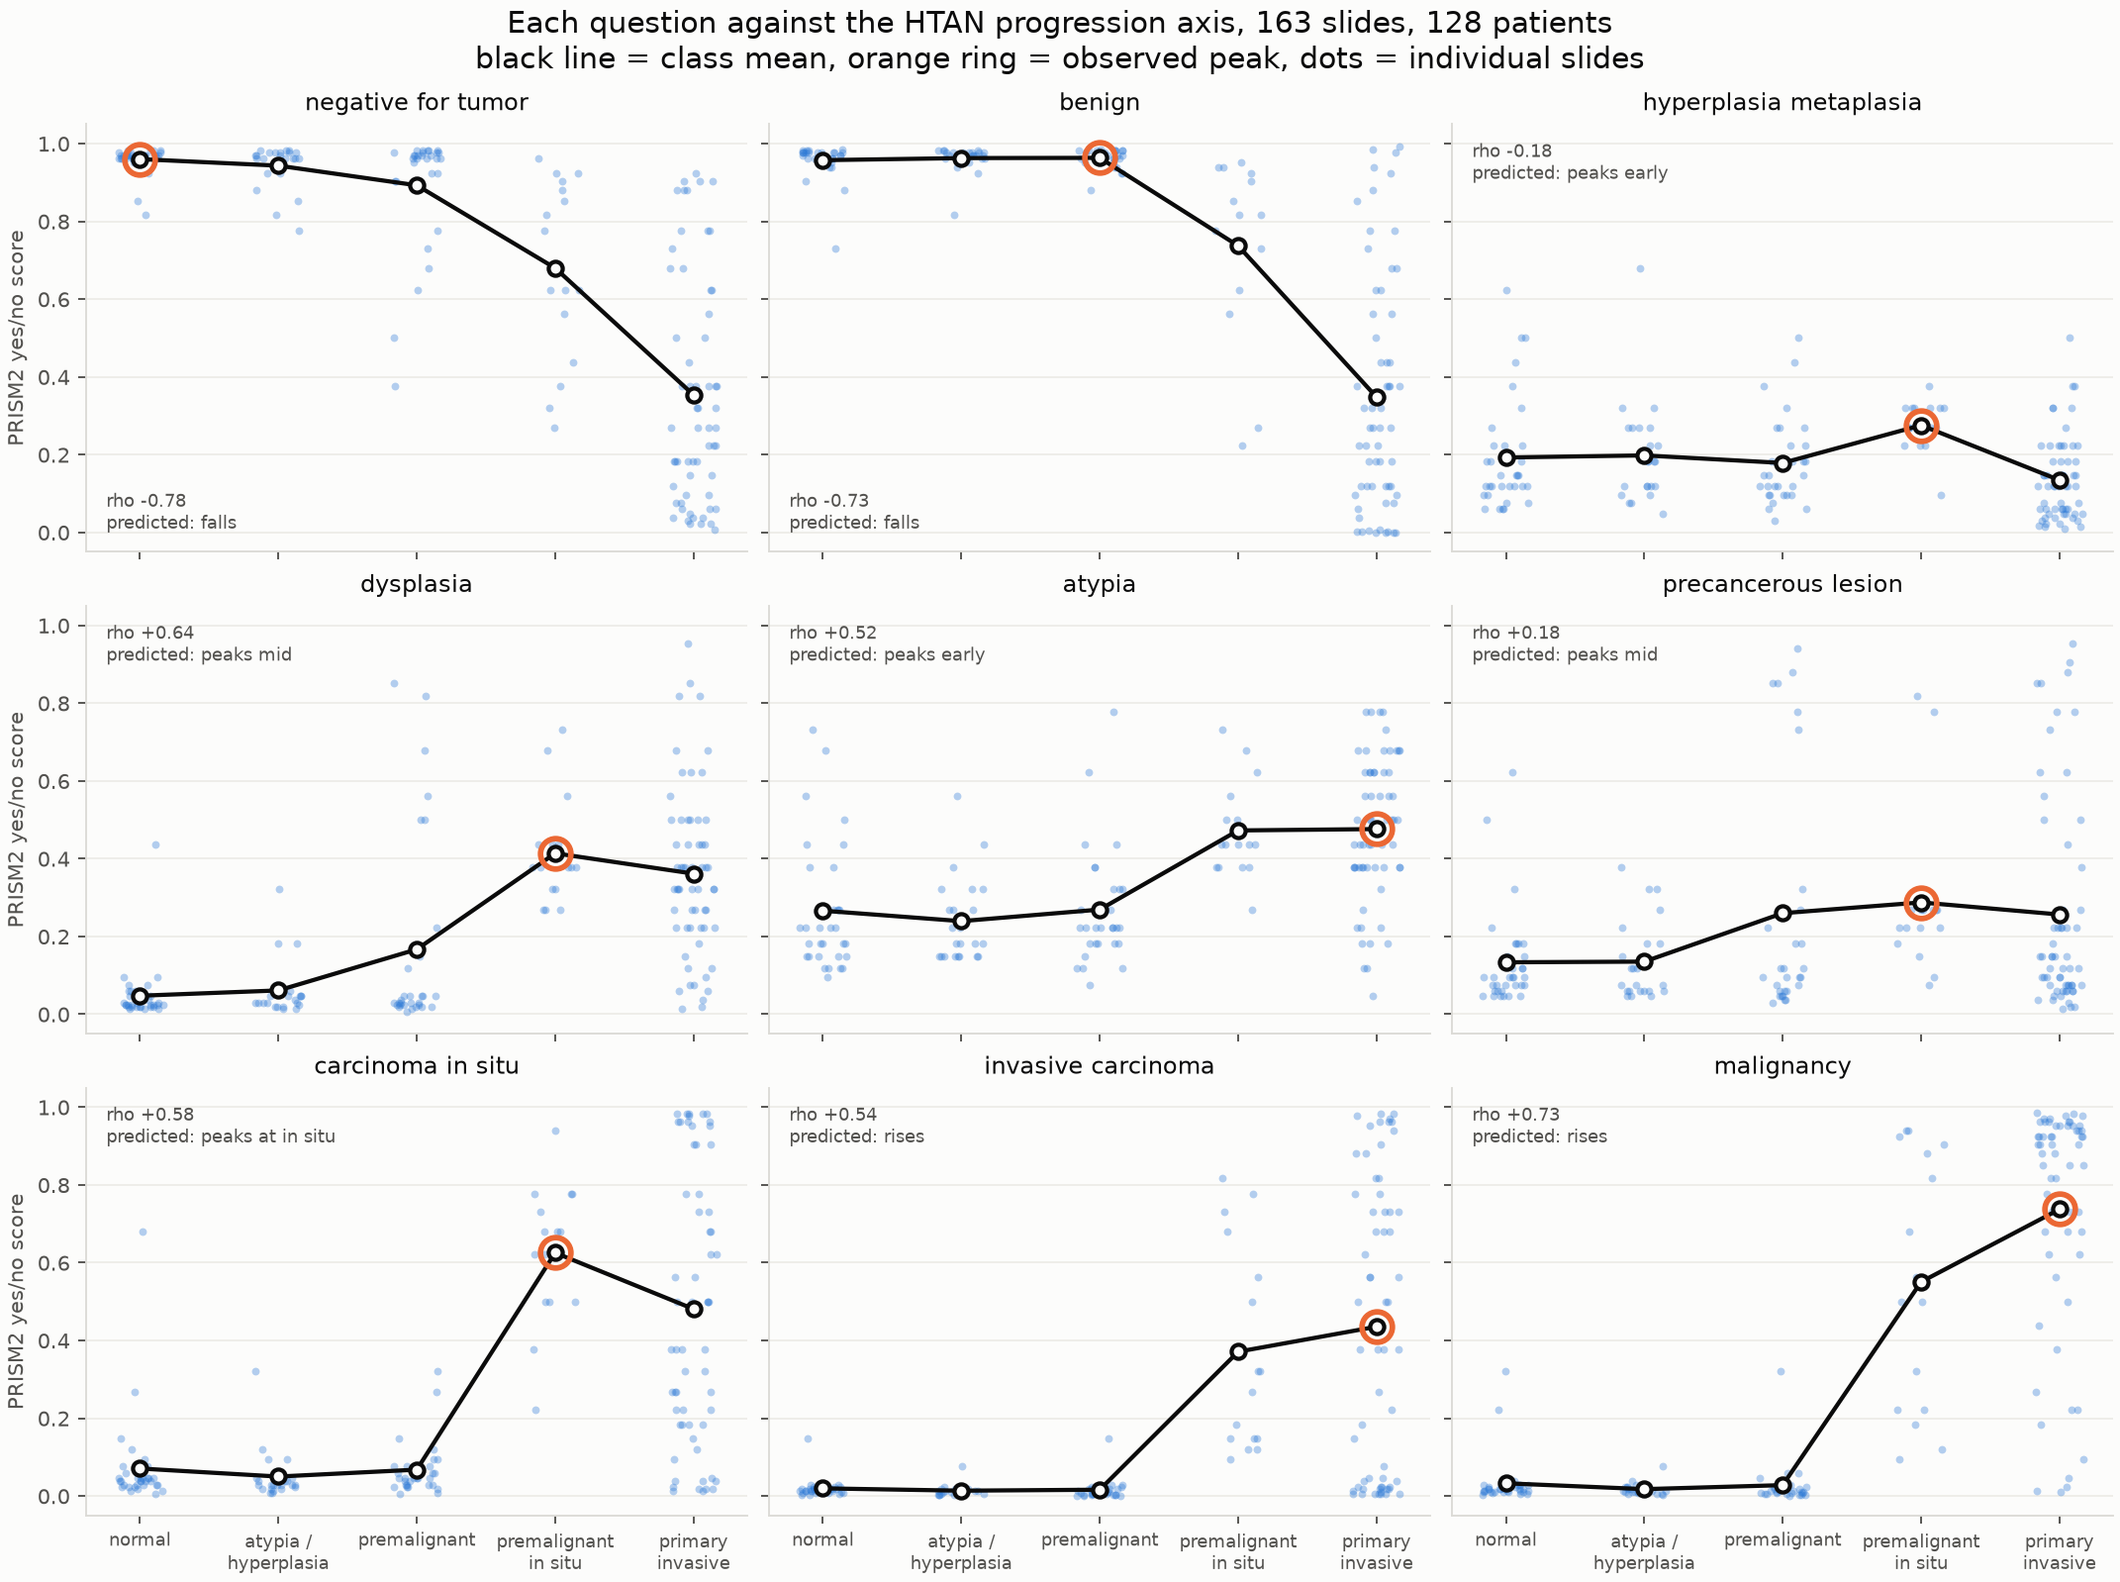
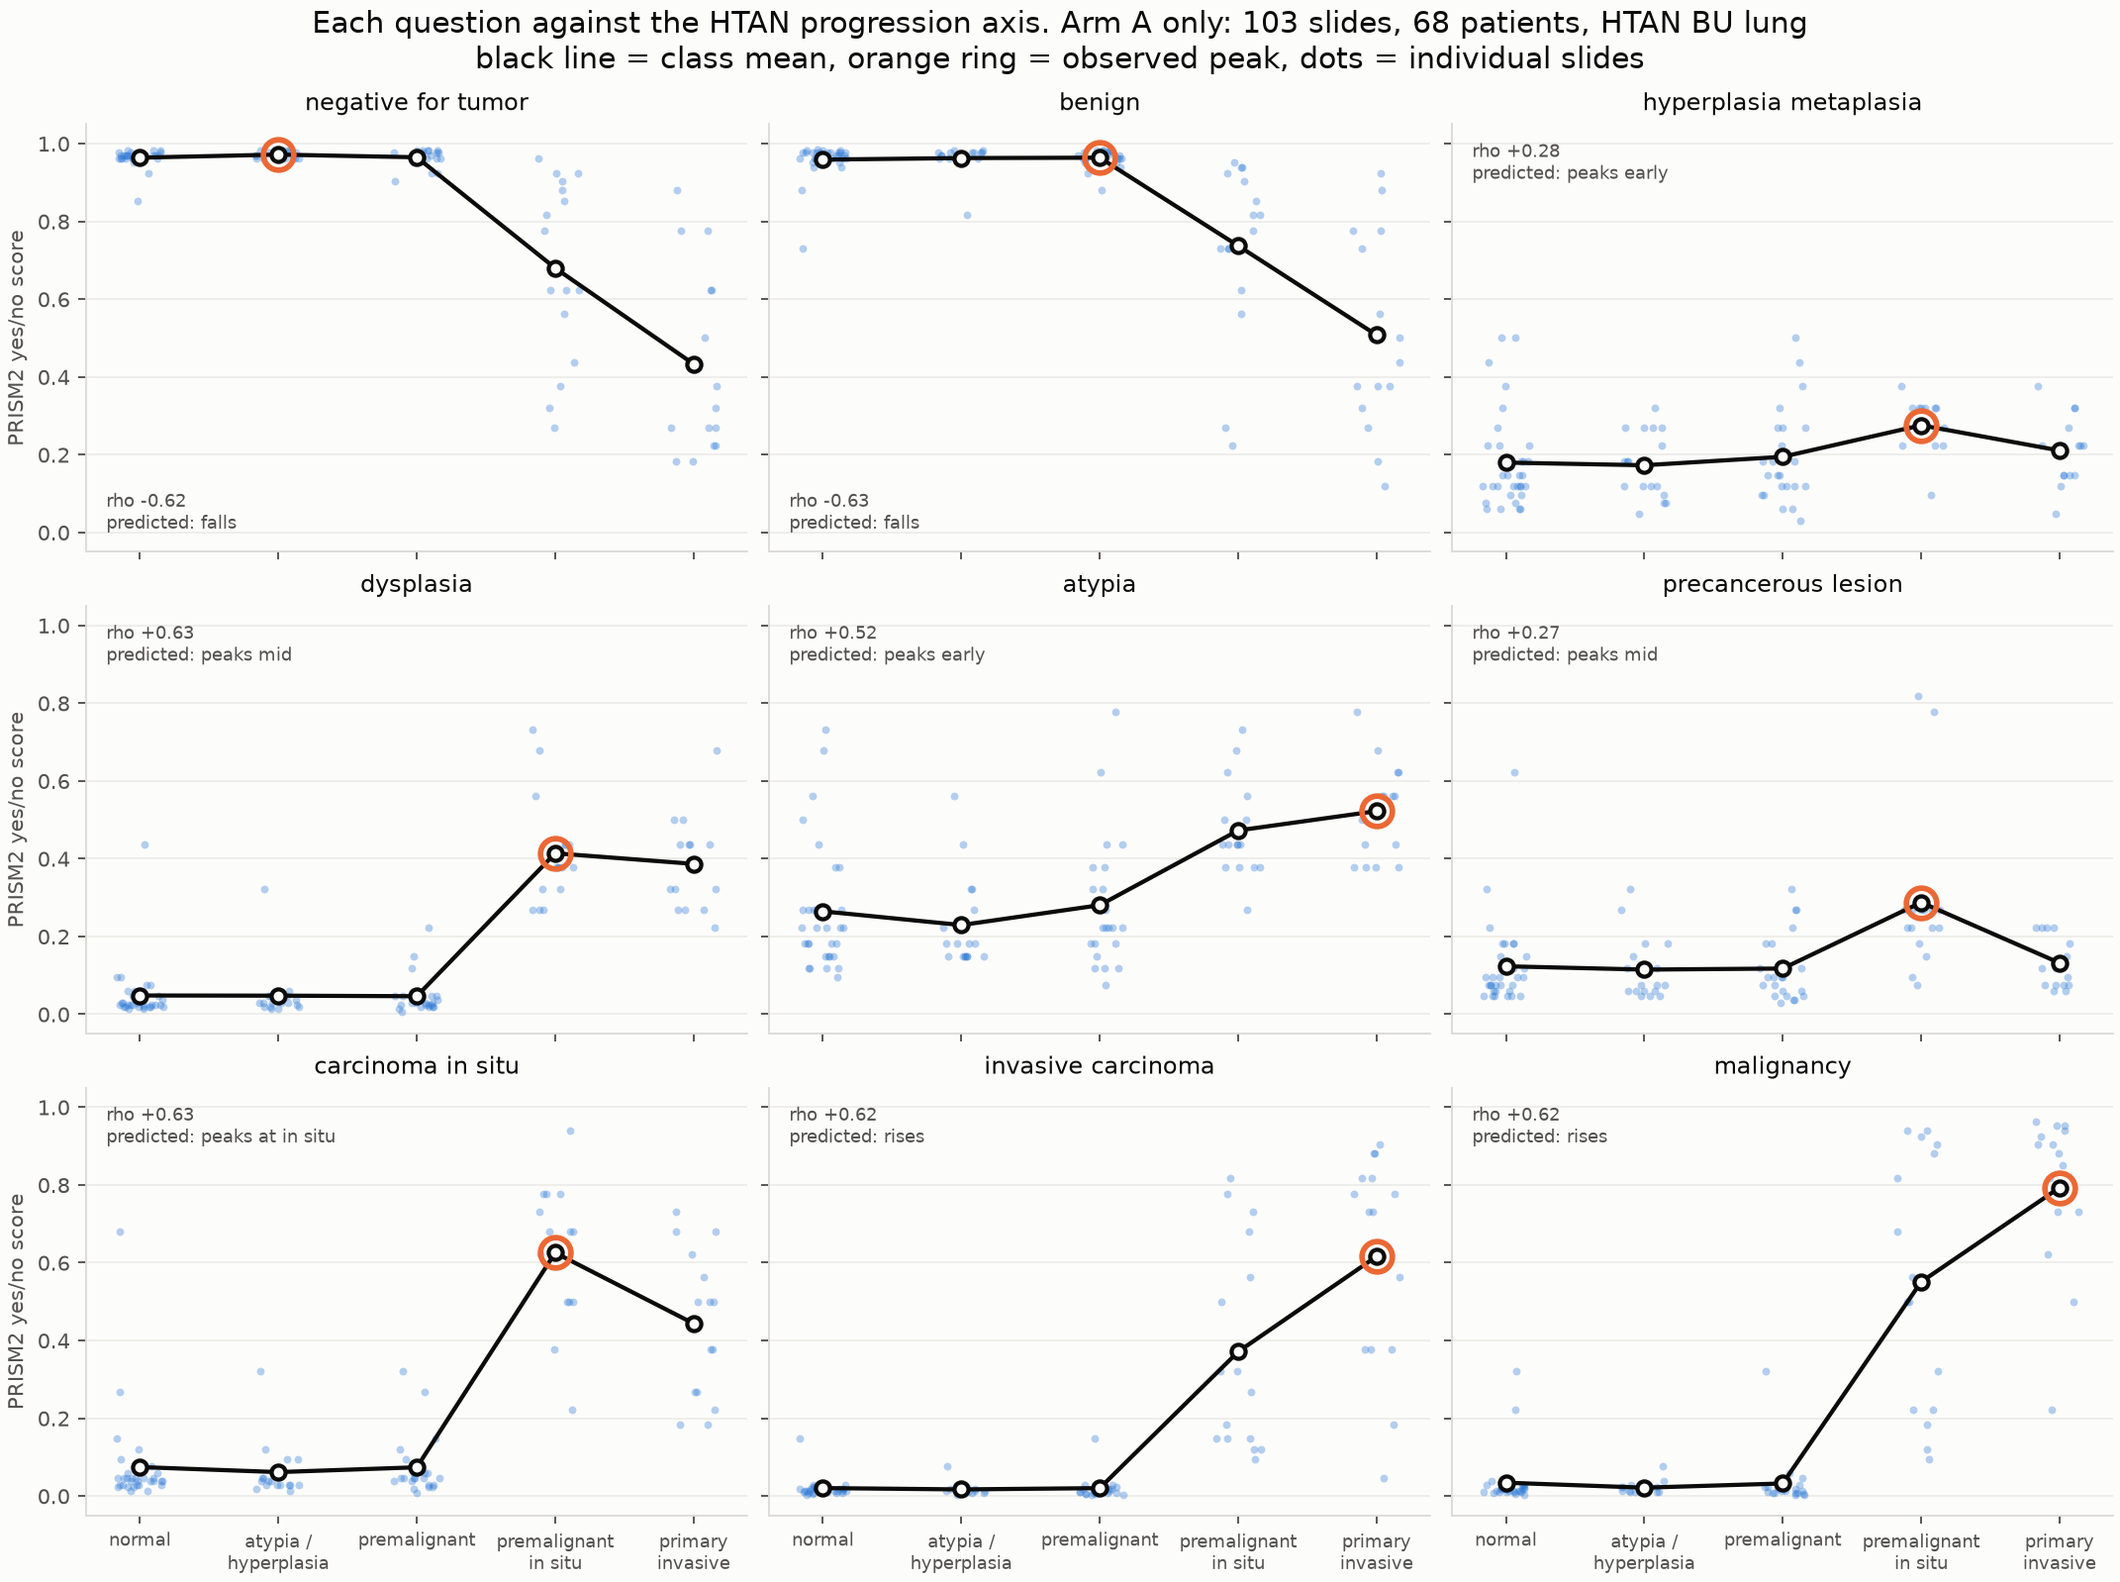
fix: report the progression endpoint by arm, as pre-registered
The first pass pooled all three arms, which the pre-registration explicitly forbids.
Correcting it changes the headline substantially, and not in the direction I assumed.

Arm A alone (HTAN BU lung, 103 slides, 68 patients, all six classes, one centre one organ):
invasive_carcinoma AUC 0.998, malignancy 0.997, carcinoma_in_situ 0.965, negative_for_tumor
0.998 in its own direction, with essentially no tied pairs. Separation is complete.

Pooling Arm C dropped invasive_carcinoma to 0.829 while inflating Spearman from -0.62 to
-0.78: two artefacts in opposite directions. The AUC drop has a specific cause worth
recording. TumorTissueType = Primary means the primary tumour specimen, not invasive tissue,
and Arm C's primaries include Duke breast DCIS, a primary specimen that is morphologically
in situ. The model scoring those low is correct; the label is what misleads.

Arm B replicates directionally in colon (rho -0.89 to +0.84) but rests on 2 normals, so its
AUCs are not reported as evidence. Figures 1 to 3 are now Arm A only, fig4 compares arms.

diff --git a/benchmark_results/progression_20260820/make_figures.py b/benchmark_results/progression_20260820/make_figures.py
@@ -49,7 +49,11 @@ OFF = {"F", "G", "H"}
 
 lab = {r["sample"]: r for r in csv.DictReader(open(f"{REPO}/assets/samplesheet_progression_labels.csv"))}
 rec = {r["sample"]: r for r in json.load(open(f"{HERE}/results.json"))}
-rows = [dict(lab[s], rec=rec[s]) for s in rec if s in lab and lab[s]["ttt"] in RANK]
+rows_all = [dict(lab[s], rec=rec[s]) for s in rec if s in lab and lab[s]["ttt"] in RANK]
+def _arm(r): return "A" if r["arm"].startswith("A") else r["arm"]
+# Arm A only: the pre-registered primary endpoint, one centre and one organ. Pooling in Arm C
+# would mix in Duke breast DCIS, labelled Primary but morphologically in situ.
+rows = [r for r in rows_all if _arm(r) == "A"]
 def yn(r, q):
     v = r["rec"].get("yes_no", {}).get(q, {}).get("score")
     return float(v) if v is not None else np.nan
@@ -83,7 +87,8 @@ for ax in axes[-1]:
     ax.set_xticks(range(5), SHORT, fontsize=7.5)
 for ax in axes[:, 0]:
     ax.set_ylabel("PRISM2 yes/no score")
-fig.suptitle("Each question against the HTAN progression axis, 163 slides, 128 patients\n"
+fig.suptitle(f"Each question against the HTAN progression axis. Arm A only: "
+             f"{len(rows)} slides, {len({r['pt'] for r in rows})} patients, HTAN BU lung\n"
              "black line = class mean, orange ring = observed peak, dots = individual slides",
              fontsize=12.5, color=INK)
 fig.savefig(f"{FIG}/fig1_ladder.png", dpi=170); plt.close(fig)
@@ -135,7 +140,7 @@ h = [plt.Line2D([], [], marker="s", ls="", color=BLUE, ms=9, label="present in t
      plt.Line2D([], [], marker="s", ls="", color=ORANGE, ms=9, label="off-cohort distractor")]
 ax.legend(handles=h, frameon=False, fontsize=8.5, loc="lower right")
 ax.set_title("43% of answers are one option; 25% are impossible here", fontsize=9.5, color=INK)
-fig.suptitle("Forced choice using HTAN's own vocabulary: 21% exact against 12.5% chance",
+fig.suptitle(f"Forced choice using HTAN's own vocabulary, Arm A ({len(rows)} slides)",
              fontsize=12.5, color=INK)
 fig.savefig(f"{FIG}/fig2_stage_mc.png", dpi=170); plt.close(fig)
 
@@ -162,8 +167,45 @@ for ax, q in zip(axes, QS):
     ax.set_ylim(-0.05, 1.05)
     ax.grid(axis="y", color="#ecebe6", lw=0.7); ax.set_axisbelow(True)
 axes[0].set_ylabel("PRISM2 yes/no score")
-fig.suptitle("Normal versus invasive primary, the endpoint the 10-slide pilot could not compute\n"
+fig.suptitle("Normal versus invasive primary, Arm A only: one centre, one organ\n"
              "black bar = median; negative_for_tumor is expected to separate in the opposite direction",
              fontsize=12, color=INK)
 fig.savefig(f"{FIG}/fig3_normal_vs_primary.png", dpi=170); plt.close(fig)
 print("wrote", sorted(os.listdir(FIG)))
+
+
+# ------------------------------------------------------------------ fig 4
+QS4 = ["negative_for_tumor", "benign", "dysplasia", "carcinoma_in_situ", "invasive_carcinoma", "malignancy"]
+arms = [("A", "Arm A\nBU lung, 6 classes"), ("B", "Arm B\nVanderbilt colon, 4 classes"),
+        ("ALL", "pooled with Arm C\n(confounded)")]
+fig, axes = plt.subplots(1, 2, figsize=(12.4, 4.6), constrained_layout=True)
+for ax, (metric, title, ref) in zip(axes, [
+        ("rho", "Spearman against the ordinal axis", 0.0),
+        ("auc", "AUC, normal versus invasive primary", 0.5)]):
+    for ai, (a, aname) in enumerate(arms):
+        sub = rows_all if a == "ALL" else [r for r in rows_all if _arm(r) == a]
+        vals = []
+        for q in QS4:
+            x = np.array([RANK[r["ttt"]] for r in sub]); y = np.array([yn(r, q) for r in sub])
+            m = ~np.isnan(y)
+            if metric == "rho":
+                vals.append(spearmanr(x[m], y[m]).statistic)
+            else:
+                pos = [yn(r, q) for r in sub if r["ttt"] == "Primary"]
+                neg = [yn(r, q) for r in sub if r["ttt"] in ("Normal", "Normal adjacent")]
+                pos = [v for v in pos if not np.isnan(v)]; neg = [v for v in neg if not np.isnan(v)]
+                vals.append(auc(pos, neg) if pos and neg else np.nan)
+        off = (ai - 1) * 0.24
+        ax.scatter(vals, np.arange(len(QS4)) + off, s=70, color=[BLUE, ORANGE, INK3][ai],
+                   label=aname, zorder=3, linewidths=0)
+    ax.axvline(ref, color=INK3, lw=1.4, ls="--")
+    ax.set_yticks(range(len(QS4)), [q.replace("_", " ") for q in QS4], fontsize=9)
+    ax.invert_yaxis(); ax.grid(axis="x", color="#ecebe6", lw=0.7); ax.set_axisbelow(True)
+    ax.set_title(title, fontsize=10, color=INK)
+    ax.set_xlim(-1.05, 1.05) if metric == "rho" else ax.set_xlim(-0.03, 1.03)
+axes[1].legend(frameon=False, fontsize=8, loc="center left")
+fig.suptitle("Arm A is the endpoint. Pooling Arm C lowers the AUC because its Primary class\n"
+             "includes Duke breast DCIS: a primary specimen that is morphologically in situ.",
+             fontsize=11.5, color=INK)
+fig.savefig(f"{FIG}/fig4_by_arm.png", dpi=170); plt.close(fig)
+print("wrote fig4")

diff --git a/benchmark_results/progression_20260820/score_progression.py b/benchmark_results/progression_20260820/score_progression.py
@@ -24,8 +24,16 @@ LADDER = ["negative_for_tumor", "benign", "hyperplasia_metaplasia", "dysplasia",
 
 lab = {r["sample"]: r for r in csv.DictReader(open(os.path.join(REPO, "assets/samplesheet_progression_labels.csv")))}
 rec = {r["sample"]: r for r in json.load(open(os.path.join(HERE, "results.json")))}
-rows = [dict(lab[s], **{"rec": rec[s]}) for s in rec if s in lab]
-print(f"{len(rows)} slides scored, {len({r['pt'] for r in rows})} patients\n")
+rows_all = [dict(lab[s], **{"rec": rec[s]}) for s in rec if s in lab]
+# Arm A is the pre-registered primary endpoint: one centre, one organ, all six classes. Arm B is
+# a separate replication. Arm C is primary-only across organs and must never be pooled into the
+# progression statistics, because its "Primary" slides include Duke breast DCIS, which is a
+# primary specimen that is morphologically in situ.
+ARM = os.environ.get("ARM", "A")
+def _arm(r): return "A" if r["arm"].startswith("A") else r["arm"]
+rows = rows_all if ARM == "ALL" else [r for r in rows_all if _arm(r) == ARM]
+print(f"ARM {ARM}: {len(rows)} slides, {len({r['pt'] for r in rows})} patients "
+      f"(of {len(rows_all)} scored overall)\n")
 
 def yn(r, q):
     v = r["rec"].get("yes_no", {}).get(q, {}).get("score")

diff --git a/benchmark_results/progression_20260820/ANALYSIS.md b/benchmark_results/progression_20260820/ANALYSIS.md
@@ -4,6 +4,11 @@ Run `nf-prism2-progression-188-resume` (`20zEYRdNeMfjuM`), 20 Aug 2026, `nf-pris
 spot `p4d.24xlarge`. **163 slides scored, 128 patients.** Scoring follows
 `assets/questions_htan_progression.md`, fixed before the run.
 
+**Read Arm A for the progression endpoint.** Arm A is HTAN BU lung, 103 slides and 68 patients
+with all six classes, one centre and one organ, which is what removes the scanner and stain
+confound. Arm B is a separate replication. Arm C is primary-only across organs and is never
+pooled into the progression statistics, for a reason given in section 2b.
+
 ## Headline
 
 Asked in pathology report language, PRISM2 tracks the HTAN progression axis closely. Asked the
@@ -13,20 +18,20 @@ same question in HTAN's curation vocabulary, it does not. That contrast is the m
 
 ![ladder](figures/fig1_ladder.png)
 
-Spearman against the ordinal axis, 95% CI bootstrapped over **patients** (32 contribute more than
-one specimen, so slide-level resampling would overstate precision):
+**Arm A**, Spearman against the ordinal axis, 95% CI bootstrapped over **patients** (32 patients
+contribute more than one specimen, so slide-level resampling would overstate precision):
 
 | Question | rho | 95% CI | Observed peak | Predicted |
 |---|---|---|---|---|
-| `negative_for_tumor` | **-0.78** | -0.82 to -0.74 | normal | falls, yes |
-| `benign` | **-0.73** | -0.79 to -0.65 | normal | falls, yes |
-| `malignancy` | **+0.73** | 0.66 to 0.79 | primary | rises, yes |
-| `dysplasia` | +0.64 | 0.58 to 0.71 | in situ | peaks mid, yes |
-| `carcinoma_in_situ` | +0.58 | 0.49 to 0.67 | **in situ** | peaks at in situ, **yes** |
-| `invasive_carcinoma` | +0.54 | 0.44 to 0.62 | primary | rises, yes |
-| `atypia` | +0.52 | 0.42 to 0.61 | primary | peaks early, no |
-| `precancerous_lesion` | +0.18 | 0.05 to 0.29 | in situ | peaks mid, weakly |
-| `hyperplasia_metaplasia` | -0.18 | -0.32 to -0.06 | in situ | peaks early, no |
+| `benign` | **-0.63** | -0.75 to -0.49 | normal adjacent | falls, yes |
+| `negative_for_tumor` | **-0.62** | -0.73 to -0.46 | atypia | falls, yes |
+| `carcinoma_in_situ` | +0.63 | 0.51 to 0.73 | **in situ** | peaks at in situ, **yes** |
+| `dysplasia` | +0.63 | 0.50 to 0.74 | in situ | peaks mid, yes |
+| `invasive_carcinoma` | +0.62 | 0.46 to 0.73 | primary | rises, yes |
+| `malignancy` | +0.62 | 0.47 to 0.74 | primary | rises, yes |
+| `atypia` | +0.52 | 0.39 to 0.65 | primary | peaks early, no |
+| `hyperplasia_metaplasia` | +0.28 | 0.14 to 0.42 | in situ | peaks early, no |
+| `precancerous_lesion` | +0.27 | 0.13 to 0.39 | in situ | peaks mid, weakly |
 
 Six of nine behaved as pre-registered. The one that matters most is `carcinoma_in_situ`: it rises
 through the precancer classes, **peaks at carcinoma in situ, then falls again for invasive
@@ -42,16 +47,38 @@ being replaced by it, so a monotone reading is not obviously wrong.
 ![normal vs primary](figures/fig3_normal_vs_primary.png)
 
 The endpoint the 10-slide pilot could not compute, having had 6 positives and 1 negative and
-returned AUC 0.50. Here n+ = 60, n- = 34:
+returned AUC 0.50. **Arm A**, n+ = 15 invasive primaries against n- = 32 normal and normal
+adjacent, all HTAN BU lung:
 
 | Question | AUC | Tied pairs |
 |---|---|---|
-| `malignancy` | **0.966** | 0.8% |
-| `carcinoma_in_situ` | 0.853 | 2.2% |
-| `invasive_carcinoma` | 0.829 | 2.4% |
-| `negative_for_tumor` | 0.007, that is **0.993** in its own direction | 0.0% |
+| `invasive_carcinoma` | **0.998** | 0.0% |
+| `malignancy` | **0.997** | 0.2% |
+| `carcinoma_in_situ` | 0.965 | 0.8% |
+| `negative_for_tumor` | 0.002, that is **0.998** in its own direction | 0.0% |
 
-bf16 quantisation is still present, 49 distinct values across 1,467 scores, but at this cohort
+Separation within a single centre and organ is essentially complete.
+
+### 2b. Why pooling makes this look worse, and what that says about the label
+
+![by arm](figures/fig4_by_arm.png)
+
+Pooling Arm C drops `invasive_carcinoma` from 0.998 to 0.829 and `carcinoma_in_situ` from 0.965
+to 0.853, while inflating the Spearman values (`negative_for_tumor` goes from -0.62 to -0.78)
+because 34 extra strongly separated primaries pile up at the top of the axis. Both movements are
+artefacts of pooling, in opposite directions.
+
+The AUC drop has a specific cause worth recording. **`TumorTissueType = Primary` means "this is
+the primary tumour specimen", not "this tissue is invasive."** Arm C's primaries include Duke
+breast DCIS cases, which are primary specimens that are morphologically in situ. When the model
+scores those low on `invasive_carcinoma` it is correct and the label is what misleads. Anyone
+using `TumorTissueType` as an invasiveness label will silently inherit this.
+
+Arm B replicates the axis directionally in a different organ and centre, rho -0.89 for
+`negative_for_tumor` to +0.84 for `carcinoma_in_situ`. Its AUCs are 0.955 to 1.000 but rest on
+**2 normals**, so they are not reported as evidence.
+
+bf16 quantisation is still present, 41 distinct values across 927 Arm A scores, but at this cohort
 size it costs under 2.5% tied pairs and does not threaten the conclusions. That is a change from
 the pilot, where 72 scores collapsed onto 32 values. **True fp32 turns out to be unavailable**:
 PRISM2's released code casts the Perceiver to bf16 whatever `torch_dtype` says, and flash
@@ -62,7 +89,7 @@ of the released model, not a setting we failed to flip.
 
 ![stage mc](figures/fig2_stage_mc.png)
 
-Exact accuracy **0.209** against 0.125 chance, within one ordinal step 0.558. The answer
+Exact accuracy **0.209** against 0.125 chance across all arms, within one ordinal step 0.558. The answer
 distribution is the real finding:
 
 * **43% of slides received "Atypia - hyperplasia"** regardless of what they were. The confusion
@@ -102,6 +129,7 @@ cannot occur here".
 * 26 of 188 slides failed to process, 13 svs and 11 OME-TIFF, mostly segmentation OOM at 24 GB on
   very large images. Arm A still retained 15 to 18 patients in every class.
 * Arm A is a single centre and a single organ by design, which removes the scanner confound but
-  makes the result lung-specific until Arm B is analysed separately.
+  makes the headline result lung-specific. Arm B replicates the direction in colon, with too few
+  normals to quantify.
 * `TumorTissueType` describes the biospecimen block, not the exact section on the glass.
 * No pathologist has read these slides. Disagreements are not adjudicated.
